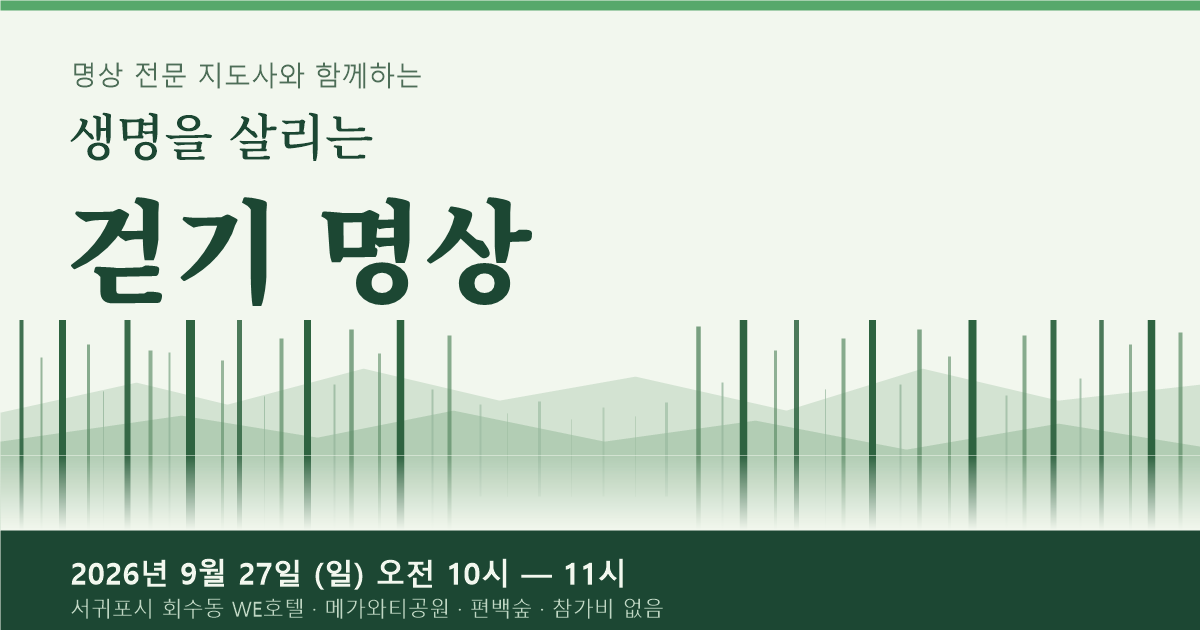
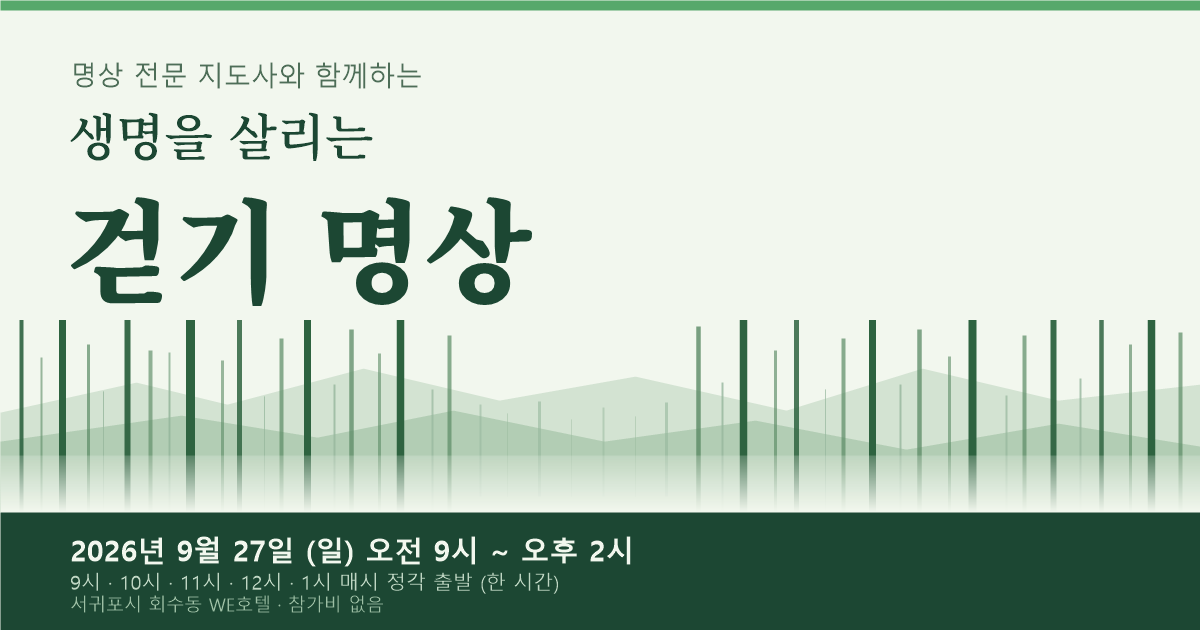
Run five one-hour sessions
The walk now runs five times - 9, 10, 11, 12 and 1 - an hour each,
instead of the single 10 to 11 slot. The start times are the piece of
information a reader now has to come away with, so the poster front
carries them as their own line above the facts rather than buried in a
date row, and the date row states the window (9am to 2pm).

Updated everywhere the old slot appeared: poster front and back, the
application page and its link-preview text, the preview card, and the
build script's description. The preview card's bottom band grew to fit
a third line.

Claude-Session: https://claude.ai/code/session_01Xgfu4zxTCjQ3FWr5NUor2A

Changed region(s): [[0.0, 0.7238, 1.0, 0.9952]]

diff --git a/index.html b/index.html
@@ -4,22 +4,22 @@
 <meta charset="utf-8">
 <meta name="viewport" content="width=device-width, initial-scale=1">
 <meta name="theme-color" content="#F2F7EE">
-<meta name="description" content="2026년 9월 27일(일) 오전 10시 — 11시 · 서귀포시 회수동 WE호텔 메가와티공원·편백숲 · 참가비 없음 · 문의 고경봉 010-2699-3001">
+<meta name="description" content="2026년 9월 27일(일) 오전 9시 · 10시 · 11시 · 낮 12시 · 오후 1시 출발 (한 시간) · 서귀포시 회수동 WE호텔 · 참가비 없음">
 <link rel="canonical" href="https://aassan9979-art.github.io/walking-meditation-poster/">
 <meta property="og:type" content="website">
 <meta property="og:url" content="https://aassan9979-art.github.io/walking-meditation-poster/">
 <meta property="og:locale" content="ko_KR">
 <meta property="og:title" content="생명을 살리는 걷기명상">
-<meta property="og:description" content="2026년 9월 27일(일) 오전 10시 — 11시 · 서귀포시 회수동 WE호텔 메가와티공원·편백숲 · 참가비 없음 · 문의 고경봉 010-2699-3001">
+<meta property="og:description" content="2026년 9월 27일(일) 오전 9시 · 10시 · 11시 · 낮 12시 · 오후 1시 출발 (한 시간) · 서귀포시 회수동 WE호텔 · 참가비 없음">
 <meta property="og:image" content="https://aassan9979-art.github.io/walking-meditation-poster/og.png">
 <meta property="og:image:secure_url" content="https://aassan9979-art.github.io/walking-meditation-poster/og.png">
 <meta property="og:image:type" content="image/png">
 <meta property="og:image:width" content="1200">
 <meta property="og:image:height" content="630">
-<meta property="og:image:alt" content="생명을 살리는 걷기 명상 안내 — 2026년 9월 27일 서귀포 회수동 WE호텔">
+<meta property="og:image:alt" content="생명을 살리는 걷기 명상 안내 — 2026년 9월 27일 서귀포 회수동 WE호텔, 오전 9시부터 오후 1시까지 매시 정각 출발">
 <meta name="twitter:card" content="summary_large_image">
 <meta name="twitter:title" content="생명을 살리는 걷기명상">
-<meta name="twitter:description" content="2026년 9월 27일(일) 오전 10시 — 11시 · 서귀포시 회수동 WE호텔 메가와티공원·편백숲 · 참가비 없음 · 문의 고경봉 010-2699-3001">
+<meta name="twitter:description" content="2026년 9월 27일(일) 오전 9시 · 10시 · 11시 · 낮 12시 · 오후 1시 출발 (한 시간) · 서귀포시 회수동 WE호텔 · 참가비 없음">
 <meta name="twitter:image" content="https://aassan9979-art.github.io/walking-meditation-poster/og.png">
 <title>생명을 살리는 걷기명상</title>
 <link rel="preconnect" href="https://fonts.googleapis.com">
@@ -100,12 +100,22 @@
     font-size:19px;line-height:1.5;color:var(--jade);margin-top:10px;letter-spacing:-.01em;
   }
 
-  .flow{
+  .times{
     padding:0 62px;margin:26px 0 0;flex:0 0 auto;
-    font-size:15px;line-height:1.6;color:var(--ink);font-weight:400;letter-spacing:-.01em;
+    font-size:20px;line-height:1.45;color:var(--ink);font-weight:600;letter-spacing:-.01em;
   }
-  .flow span{
-    color:var(--jade);font-weight:600;font-size:13px;letter-spacing:.08em;margin-left:8px;
+  .times b{
+    display:inline-block;vertical-align:2px;margin-right:12px;
+    font-size:12px;font-weight:600;letter-spacing:.18em;color:var(--jade);
+  }
+  .times span{
+    display:block;margin-top:5px;
+    font-size:14px;font-weight:300;color:var(--ink-soft);letter-spacing:-.01em;
+  }
+
+  .flow{
+    padding:0 62px;margin:18px 0 0;flex:0 0 auto;
+    font-size:15px;line-height:1.6;color:var(--ink-soft);font-weight:300;letter-spacing:-.01em;
   }
 
   .facts{padding:0 62px;margin-top:30px;flex:0 0 auto;}
@@ -209,8 +219,10 @@
     .lede .small{font-size:14px;margin-top:8px;}
     .lede .invite{font-size:15px;margin-top:8px;}
 
-    .flow{padding:0 24px;margin-top:18px;font-size:13px;}
-    .flow span{font-size:11px;display:block;margin:2px 0 0;}
+    .times{padding:0 24px;margin-top:18px;font-size:16px;}
+    .times b{font-size:10px;letter-spacing:.14em;margin-right:8px;display:block;margin-bottom:2px;}
+    .times span{font-size:12px;margin-top:4px;}
+    .flow{padding:0 24px;margin-top:12px;font-size:12px;}
 
     .facts{padding:0 24px;margin-top:18px;}
     .sheet--back .facts{padding-bottom:22px;}
@@ -331,11 +343,16 @@
         <p class="invite">오실 때 주변 세 분과 함께 오시면 더욱 좋습니다.</p>
       </div>
 
-      <p class="flow">이완명상 · 걷기명상 · 산과 나무 명상 · 마무리 <span>전체 한 시간</span></p>
+      <p class="times">
+        <b>출발</b>오전 9시 · 10시 · 11시 · 낮 12시 · 오후 1시
+        <span>다섯 번 · 한 번에 한 시간 · 편한 시간에 오세요</span>
+      </p>
+
+      <p class="flow">이완명상 · 걷기명상 · 산과 나무 명상 · 마무리</p>
 
       <section class="facts">
         <dl>
-          <div class="row"><dt>일시</dt><dd class="key">2026년 9월 27일 (일) 오전 10시 — 11시</dd></div>
+          <div class="row"><dt>날짜</dt><dd class="key">2026년 9월 27일 (일) <small>오전 9시 ~ 오후 2시</small></dd></div>
           <div class="row"><dt>장소</dt><dd>서귀포시 회수동 WE호텔 <small>메가와티공원 · 편백숲</small></dd></div>
           <div class="row"><dt>참가비</dt><dd><em>없음</em> <small>기념품과 사은품을 드립니다</small></dd></div>
           <div class="row"><dt>문의 · 접수</dt><dd>고경봉 010-2699-3001</dd></div>
@@ -379,7 +396,7 @@
           <li><span class="n">3</span><b>걷기명상, 그리고 산과 나무 명상</b> <em>— 메가와티가든에서 편백나무숲까지</em></li>
           <li><span class="n">4</span><b>돌아와 마무리</b> <em>— 다시 메가와티가든에서 기념촬영과 기념품</em></li>
         </ol>
-        <p class="note">걷기 편한 신발과 마실 물을 준비하시면 좋습니다.</p>
+        <p class="note">오전 9시 · 10시 · 11시 · 낮 12시 · 오후 1시, 매시 정각에 출발합니다. 걷기 편한 신발과 마실 물을 준비하시면 좋습니다.</p>
       </section>
 
       <section class="facts">

diff --git a/src/poster.html b/src/poster.html
@@ -77,12 +77,22 @@
     font-size:19px;line-height:1.5;color:var(--jade);margin-top:10px;letter-spacing:-.01em;
   }
 
-  .flow{
+  .times{
     padding:0 62px;margin:26px 0 0;flex:0 0 auto;
-    font-size:15px;line-height:1.6;color:var(--ink);font-weight:400;letter-spacing:-.01em;
+    font-size:20px;line-height:1.45;color:var(--ink);font-weight:600;letter-spacing:-.01em;
   }
-  .flow span{
-    color:var(--jade);font-weight:600;font-size:13px;letter-spacing:.08em;margin-left:8px;
+  .times b{
+    display:inline-block;vertical-align:2px;margin-right:12px;
+    font-size:12px;font-weight:600;letter-spacing:.18em;color:var(--jade);
+  }
+  .times span{
+    display:block;margin-top:5px;
+    font-size:14px;font-weight:300;color:var(--ink-soft);letter-spacing:-.01em;
+  }
+
+  .flow{
+    padding:0 62px;margin:18px 0 0;flex:0 0 auto;
+    font-size:15px;line-height:1.6;color:var(--ink-soft);font-weight:300;letter-spacing:-.01em;
   }
 
   .facts{padding:0 62px;margin-top:30px;flex:0 0 auto;}
@@ -186,8 +196,10 @@
     .lede .small{font-size:14px;margin-top:8px;}
     .lede .invite{font-size:15px;margin-top:8px;}
 
-    .flow{padding:0 24px;margin-top:18px;font-size:13px;}
-    .flow span{font-size:11px;display:block;margin:2px 0 0;}
+    .times{padding:0 24px;margin-top:18px;font-size:16px;}
+    .times b{font-size:10px;letter-spacing:.14em;margin-right:8px;display:block;margin-bottom:2px;}
+    .times span{font-size:12px;margin-top:4px;}
+    .flow{padding:0 24px;margin-top:12px;font-size:12px;}
 
     .facts{padding:0 24px;margin-top:18px;}
     .sheet--back .facts{padding-bottom:22px;}
@@ -307,11 +319,16 @@
         <p class="invite">오실 때 주변 세 분과 함께 오시면 더욱 좋습니다.</p>
       </div>
 
-      <p class="flow">이완명상 · 걷기명상 · 산과 나무 명상 · 마무리 <span>전체 한 시간</span></p>
+      <p class="times">
+        <b>출발</b>오전 9시 · 10시 · 11시 · 낮 12시 · 오후 1시
+        <span>다섯 번 · 한 번에 한 시간 · 편한 시간에 오세요</span>
+      </p>
+
+      <p class="flow">이완명상 · 걷기명상 · 산과 나무 명상 · 마무리</p>
 
       <section class="facts">
         <dl>
-          <div class="row"><dt>일시</dt><dd class="key">2026년 9월 27일 (일) 오전 10시 — 11시</dd></div>
+          <div class="row"><dt>날짜</dt><dd class="key">2026년 9월 27일 (일) <small>오전 9시 ~ 오후 2시</small></dd></div>
           <div class="row"><dt>장소</dt><dd>서귀포시 회수동 WE호텔 <small>메가와티공원 · 편백숲</small></dd></div>
           <div class="row"><dt>참가비</dt><dd><em>없음</em> <small>기념품과 사은품을 드립니다</small></dd></div>
           <div class="row"><dt>문의 · 접수</dt><dd>고경봉 010-2699-3001</dd></div>
@@ -355,7 +372,7 @@
           <li><span class="n">3</span><b>걷기명상, 그리고 산과 나무 명상</b> <em>— 메가와티가든에서 편백나무숲까지</em></li>
           <li><span class="n">4</span><b>돌아와 마무리</b> <em>— 다시 메가와티가든에서 기념촬영과 기념품</em></li>
         </ol>
-        <p class="note">걷기 편한 신발과 마실 물을 준비하시면 좋습니다.</p>
+        <p class="note">오전 9시 · 10시 · 11시 · 낮 12시 · 오후 1시, 매시 정각에 출발합니다. 걷기 편한 신발과 마실 물을 준비하시면 좋습니다.</p>
       </section>
 
       <section class="facts">

diff --git a/apply/index.html b/apply/index.html
@@ -5,13 +5,13 @@
 <meta name="viewport" content="width=device-width, initial-scale=1">
 <meta name="theme-color" content="#F2F7EE">
 <title>걷기명상 참가 신청</title>
-<meta name="description" content="생명을 살리는 걷기명상 참가 신청 — 2026년 9월 27일(일) 오전 10시, 서귀포시 회수동 WE호텔. 참가비 없음.">
+<meta name="description" content="생명을 살리는 걷기명상 참가 신청 — 2026년 9월 27일(일), 서귀포시 회수동 WE호텔. 오전 9시부터 오후 1시까지 매시 정각 출발. 참가비 없음.">
 <link rel="canonical" href="https://aassan9979-art.github.io/walking-meditation-poster/apply/">
 <meta property="og:type" content="website">
 <meta property="og:url" content="https://aassan9979-art.github.io/walking-meditation-poster/apply/">
 <meta property="og:locale" content="ko_KR">
 <meta property="og:title" content="걷기명상 참가 신청">
-<meta property="og:description" content="2026년 9월 27일(일) 오전 10시 — 11시 · 서귀포시 회수동 WE호텔 · 참가비 없음 · 문의 고경봉 010-2699-3001">
+<meta property="og:description" content="2026년 9월 27일(일) 오전 9시 · 10시 · 11시 · 낮 12시 · 오후 1시 출발 · 서귀포시 회수동 WE호텔 · 참가비 없음">
 <meta property="og:image" content="https://aassan9979-art.github.io/walking-meditation-poster/og.png">
 <meta property="og:image:width" content="1200">
 <meta property="og:image:height" content="630">
@@ -178,7 +178,8 @@
 
   <section class="facts">
     <dl>
-      <div class="row"><dt>일시</dt><dd class="key">2026년 9월 27일 (일) 오전 10시 — 11시</dd></div>
+      <div class="row"><dt>날짜</dt><dd class="key">2026년 9월 27일 (일) <small>오전 9시 ~ 오후 2시</small></dd></div>
+      <div class="row"><dt>출발</dt><dd>오전 9시 · 10시 · 11시 · 낮 12시 · 오후 1시 <small>다섯 번 · 한 번에 한 시간 · 편한 시간에 오세요</small></dd></div>
       <div class="row"><dt>장소</dt><dd>서귀포시 회수동 WE호텔 <small>메가와티공원 · 편백숲</small></dd></div>
       <div class="row"><dt>참가비</dt><dd><em>없음</em> <small>기념품과 사은품을 드립니다</small></dd></div>
     </dl>
@@ -338,7 +339,7 @@
     if (attending) {
       h.textContent = "신청이 접수되었습니다.";
       p.textContent =
-        "9월 27일 일요일 오전 10시, 서귀포 회수동 WE호텔에서 뵙겠습니다. 접수는 호텔 입구 또는 메가와티공원 입구에서 하시면 됩니다.";
+        "9월 27일 일요일, 서귀포 회수동 WE호텔에서 뵙겠습니다. 오시고 싶은 시각 10분 전까지 호텔 입구 또는 메가와티공원 입구에서 접수해 주세요.";
     } else {
       h.textContent = "알려주셔서 고맙습니다.";
       p.textContent = "다음 걷기명상에서 뵙기를 바랍니다.";
